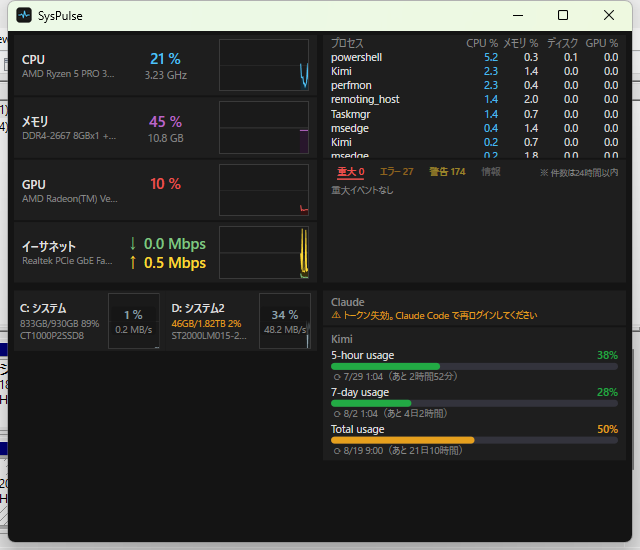
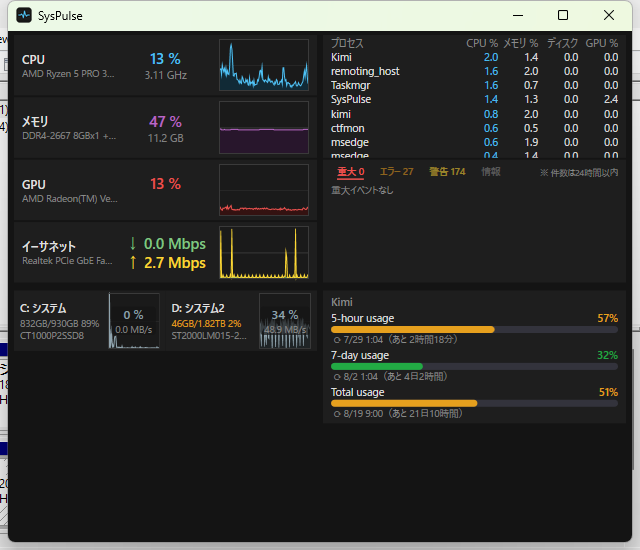
右クリックメニューにAI Usageエリアの表示/非表示切替を追加(非表示時は右上を縦拡張)

diff --git a/src/SysPulse.App/MainWindow.xaml.cs b/src/SysPulse.App/MainWindow.xaml.cs
@@ -39,6 +39,8 @@ public partial class MainWindow : Window
     private ProcessTable _procTable = null!;
     private CriticalEventPanel _eventPanel = null!;
     private Grid _bl = null!;
+    private Grid _tr = null!;
+    private Grid _br = null!;
     private UsagePanel _usagePanel = null!;
     private Usage.Settings _usageSettings = null!;
     private UsagePoller? _usagePoller;
@@ -173,15 +175,15 @@ public partial class MainWindow : Window
         AddRow(tl, "net", "イーサネット", [CDown, CUp], null, subLarge: true, subColor: CUp);
 
         // 右上: プロセス表(上半分) + システムログイベント(下半分)
-        var tr = MakeBlock(0, 1);
-        tr.RowDefinitions.Add(new RowDefinition { Height = new GridLength(1, GridUnitType.Star) });
-        tr.RowDefinitions.Add(new RowDefinition { Height = new GridLength(1, GridUnitType.Star) });
+        _tr = MakeBlock(0, 1);
+        _tr.RowDefinitions.Add(new RowDefinition { Height = new GridLength(1, GridUnitType.Star) });
+        _tr.RowDefinitions.Add(new RowDefinition { Height = new GridLength(1, GridUnitType.Star) });
         _procTable = new ProcessTable(rows: 8);
         Grid.SetRow(_procTable, 0);
-        tr.Children.Add(_procTable);
+        _tr.Children.Add(_procTable);
         _eventPanel = new CriticalEventPanel();
         Grid.SetRow(_eventPanel, 1);
-        tr.Children.Add(_eventPanel);
+        _tr.Children.Add(_eventPanel);
 
         // 左下: ディスク(2 列 x 5 行。行は Online 判定の結果が来てから構築)
         _bl = MakeBlock(1, 0);
@@ -197,13 +199,27 @@ public partial class MainWindow : Window
         _bl.Children.Add(_diskPlaceholder);
 
         // 右下: AI Usage(UsageWatcher 統合)
-        var br = MakeBlock(1, 1);
+        _br = MakeBlock(1, 1);
         _usageSettings = Usage.Settings.Load();
         _usagePanel = new UsagePanel(_usageSettings);
-        br.Children.Add(_usagePanel);
+        _br.Children.Add(_usagePanel);
 
         // 右クリックメニュー(どのパネル上でも表示。子要素から親へ辿って出る)
         Root.ContextMenu = ExternalTools.BuildContextMenu();
+
+        // AI Usage エリアの表示/非表示(デフォルト表示。
+        // 非表示時は右上のプロセス+イベント領域を縦いっぱいに伸ばす)
+        var usageToggle = new MenuItem { Header = "AI Usage を表示", IsCheckable = true, IsChecked = true };
+        usageToggle.Click += (_, _) => SetUsageVisible(usageToggle.IsChecked);
+        Root.ContextMenu.Items.Add(new Separator());
+        Root.ContextMenu.Items.Add(usageToggle);
+    }
+
+    /// <summary>右下の AI Usage エリアの表示/非表示を切り替える。</summary>
+    private void SetUsageVisible(bool visible)
+    {
+        _br.Visibility = visible ? Visibility.Visible : Visibility.Collapsed;
+        Grid.SetRowSpan(_tr, visible ? 1 : 2);
     }
 
     private Grid MakeBlock(int row, int col)

diff --git a/README.md b/README.md
@@ -151,6 +151,8 @@
 - **音量ミキサー** — `ms-settings:apps-volume`(設定 > システム > サウンド)
 - **インストールされているアプリ** — `ms-settings:appsfeatures`(設定 > アプリ)
 - **Kimi Console** — `https://www.kimi.com/code/console`(ブラウザ)
+- **AI Usage を表示** — チェックで右下の AI Usage エリアの表示/非表示を切り替え
+  (デフォルト表示。非表示時は右上のプロセス+イベント領域を縦いっぱいに伸ばす)
 
 プロセス表のプロセス名を右クリックすると、その行のプロセスの
 **「ファイルの場所を開く」**(explorer /select)が使える
